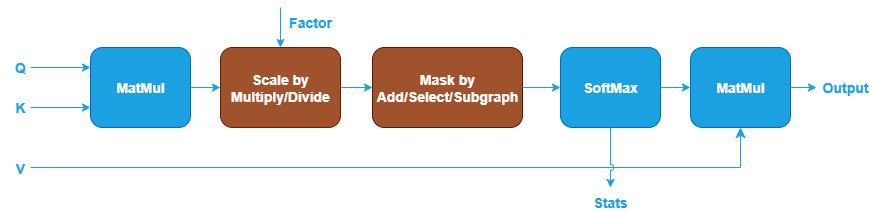
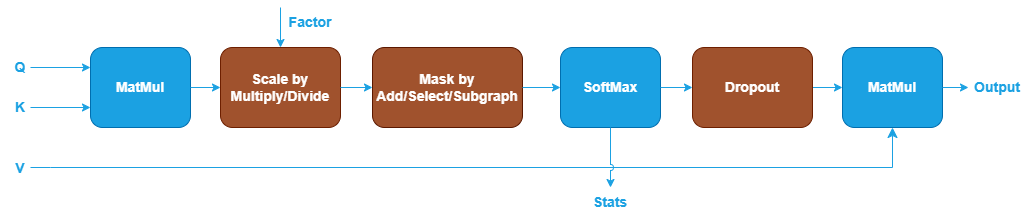
doc: graph: support dropout in sdpa/gqa training

diff --git a/doc/graph/fusion_patterns/sdpa.md b/doc/graph/fusion_patterns/sdpa.md
@@ -79,9 +79,12 @@ optional.
 4. The SoftMax operation takes the masked output and transforms it into
    probabilities between 0 and 1. See [SoftMax](@ref dev_guide_op_softmax)
    operation in Graph API.
-5. The second MatMul calculates the dot products between the probabilities after
+5. The optional Dropout operation takes the normalized output and randomly
+   drops some elements during training. See [Dropout](@ref dev_guide_op_dropout)
+   operation in Graph API.
+6. The second MatMul calculates the dot products between the probabilities after
    SoftMax and Value.
-6. The Reorder node is optional and used to reshape or transpose the attention
+7. The Reorder node is optional and used to reshape or transpose the attention
    output for cases where the attention output is transformed from shape (N, H,
    S, D_v) to (N, S, H, D_v) or (N, S, H * D_v). The node can be constructed by
    the combinations of [StaticTranspose](@ref dev_guide_op_statictranspose) and
@@ -124,19 +127,22 @@ are optional.
    and recover the probabilities computed by SoftMax in the training forward
    propagation. See [Subtract](@ref dev_guide_op_subtract) and [Exp](@ref dev_guide_op_exp)
    in Graph API.
-5. The TypeCast and MatMul operations after Exp are used to compute the
+5. The Dropout, TypeCast and MatMul operations after Exp are used to compute the
    gradients with respect to Value. TypeCast is required for bf16 and f16
    training scenarios. See [TypeCast](@ref dev_guide_op_typecast) in Graph API.
 6. The MatMul takes the output gradients (`dO`) and the Value as inputs to
    compute the gradients of the probabilities.
-7. The SoftMaxBackward operation computes the gradients of the scaled output.
+7. The Dropout operation takes the gradients of the dropped probabilities as
+   input and computes gradients with respect to the normalized probabilities.
+   See [Dropout](@ref dev_guide_op_dropout) in Graph API.
+8. The SoftMaxBackward operation computes the gradients of the scaled output.
    See [SoftMaxBackward](@ref dev_guide_op_softmaxbackward) in Graph API.
-8. The Scale node after SoftMaxBackward corresponds to the forward Scale node
+9. The Scale node after SoftMaxBackward corresponds to the forward Scale node
    and is used to compute the gradients of the score.
-9. The TypeCast and two MatMul operations after the Scale node compute the
+10. The TypeCast and two MatMul operations after the Scale node compute the
    gradients with respect to Query and Key, respectively. TypeCast is required
    for bf16 and f16 training scenarios.
-10. The optional End operation marks the output of SoftMaxBackward as a
+11. The optional End operation marks the output of SoftMaxBackward as a
     partition output, representing the gradients with respect to the Mask. Note
     that the output shape of `dM` is (N, H, S, S) and the data
     type is f32. The library does not perform any reduction or typecast on this
@@ -174,8 +180,7 @@ platforms follow the general description in @ref dev_guide_data_types.
    Divide, and Select operations require the input tensors to have the same
    shape or the shapes can be properly broadcasted based on the operation
    attribute.
-3. Dropout is currently not supported in SDPA training.
-4. CPU
+3. CPU
    - Optimized implementation for inference is available for 4D Q/K tensors with
      shape defined as (N, H, S, D_qk) and V tensor with shape defined as
      (N, H, S, D_v).
@@ -183,7 +188,7 @@ platforms follow the general description in @ref dev_guide_data_types.
      runtime on Intel Architecture Processors.
    - Specifically for OpenMP runtime, the optimized implementation requires `N *
      H > 2 * thread number` to get enough parallelism.
-5. GPU
+4. GPU
    - Optimized implementation for inference is available for 4D Q/K tensors with
      shape defined as (N, H, S, D_qk) and V tensor with shape defined as (N, H,
      S, D_v) where D_qk equals D_v.

diff --git a/doc/graph/fusion_patterns/gqa.md b/doc/graph/fusion_patterns/gqa.md
@@ -92,10 +92,13 @@ propagation as follows. The blue nodes are required while the brown nodes are op
 ![GQA forward pattern](images/gqa_forward.png)
 
 The training forward pattern only supports 5D input and output tensors. The key
-difference between the inference pattern with 5D input/output and the training
-forward propagation pattern is that, for training forward propagation, the
-`Stats` output of the SoftMax operation is needed. See
-[SoftMax](@ref dev_guide_op_softmax) in Graph API for more details.
+differences from the 5D inference pattern are:
+
+1. For training forward propagation, the `Stats` output of the SoftMax operation
+   is needed. See [SoftMax](@ref dev_guide_op_softmax) in Graph API for more details.
+2. An optional Dropout operation may be used; it takes the normalized output and
+   randomly drops some elements during training. See
+   [Dropout](@ref dev_guide_op_dropout) operation in Graph API.
 
 ### GQA for Training Backpropagation
 
@@ -119,22 +122,25 @@ The blue nodes are required while the brown nodes are optional.
    and recover the probabilities computed by SoftMax in the training forward
    propagation. See [Subtract](@ref dev_guide_op_subtract) and [Exp](@ref dev_guide_op_exp)
    in Graph API.
-5. The TypeCast, MatMul and ReduceSum operations after Exp are used to compute the
+5. The Dropout, TypeCast, MatMul and ReduceSum operations after Exp are used to compute the
    gradients with respect to Value. TypeCast is required for bf16 and f16
    training scenarios. ReduceSum reduces the Value gradients from
    (N, H_kv, N_rep, S, D) to (N, H_kv, 1, S, D). See [TypeCast](@ref dev_guide_op_typecast)
    and [ReduceSum](@ref dev_guide_op_reducesum) in Graph API.
 6. The MatMul takes the output gradients (`dO`) and the Value as inputs to
    compute the gradients of the probabilities.
-7. The SoftMaxBackward operation computes the gradients of the scaled output.
+7. The Dropout operation takes the gradients of the dropped probabilities as
+   input and computes gradients with respect to the normalized probabilities.
+   See [Dropout](@ref dev_guide_op_dropout) in Graph API.
+8. The SoftMaxBackward operation computes the gradients of the scaled output.
    See [SoftMaxBackward](@ref dev_guide_op_softmaxbackward) in Graph API.
-8. The Scale node after SoftMaxBackward corresponds to the forward Scale node
+9. The Scale node after SoftMaxBackward corresponds to the forward Scale node
    and is used to compute the gradients of the score.
-9. The TypeCast, two MatMul and ReduceSum operations after the Scale node
+10. The TypeCast, two MatMul and ReduceSum operations after the Scale node
    compute the gradients with respect to Query and Key, respectively. TypeCast
    is required for bf16 and f16 training scenarios. ReduceSum reduces the Key
    gradients from (N, H_kv, N_rep, S, D) to (N, H_kv, 1, S, D).
-10. The optional End operation marks the output of SoftMaxBackward as a
+11. The optional End operation marks the output of SoftMaxBackward as a
     partition output, representing the gradients with respect to the Mask. Note
     that the output shape of `dM` is (N, H_kv, N_rep, S, S) and the data
     type is f32. The library does not perform any reduction or typecast on this
